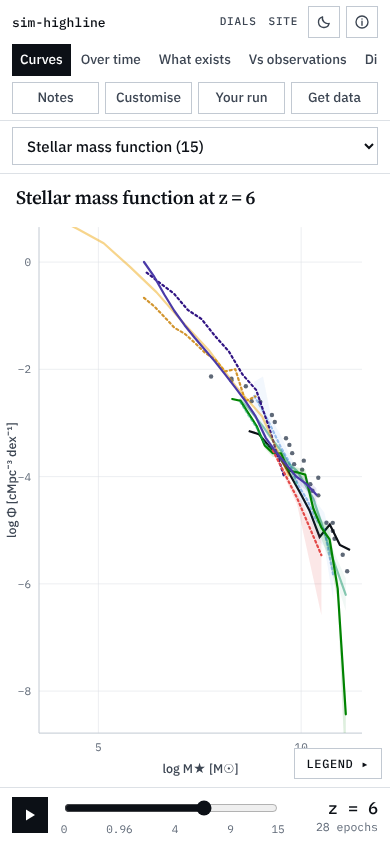
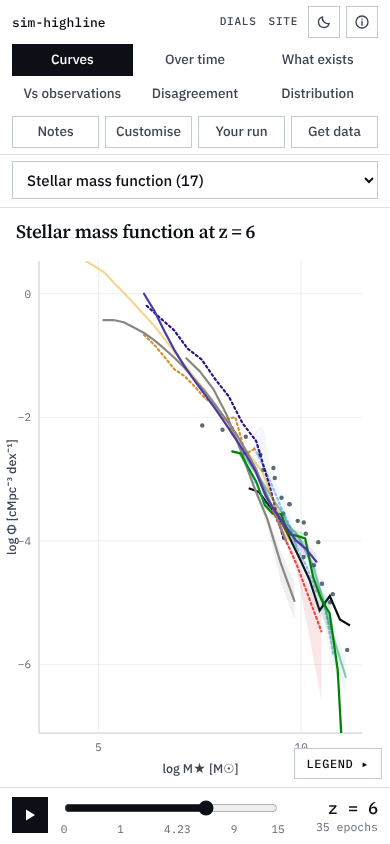
Share cards for the answer pages, cite-or-embed block, subscribe links, plain README opening
Each answer page and the answers index have their own preview image; answer pages end with a citation and an embed snippet whose address the test loads; the footer links the Atom feed and the changes page says how to follow along; the README opens with one sentence and three links and its screenshots show the current Explorer.

diff --git a/site/src/changes.html b/site/src/changes.html
@@ -15,6 +15,7 @@
 <p class="lab">Contents</p>
 <ol>
 <li><a href="#new"><span aria-hidden="true">§1</span>Releases</a></li>
+<li><a href="#follow"><span aria-hidden="true">§2</span>Follow along</a></li>
 </ol>
 </nav>
 <div class="c">
@@ -34,6 +35,15 @@
 <dt>0.21.0 · 14 Oct 2026</dt><dd>A pre-specified test of whether matching definitions (IMF, scatter, aperture) closes the gap between simulated stellar mass functions: not detected, and the test could not have seen an effect of the measured size. New within-run aperture curves for EAGLE and COLIBRE.</dd>
 <dt>0.20.0 · 13 Oct 2026</dt><dd>NewHorizon stellar mass functions at four epochs; new curves for COLIBRE, FIREbox, FIRE-2 and NIHAO; an automatic screen that compares every curve with the median of the others.</dd>
 </dl>
+</section>
+
+<section class="sec" id="follow" aria-labelledby="follow-h">
+<h2 id="follow-h"><span class="sn" aria-hidden="true">§2</span>Follow along</h2>
+<ul class="flat">
+<li><b>Releases.</b> Subscribe to the <a href="../feed.xml">Atom feed</a> in any feed reader.</li>
+<li><b>New simulation papers.</b> Every week the repository lists the new simulation papers it found, as <a href="{{repo}}/issues?q=is%3Aissue+label%3Aliterature-watch">a list of issues</a>. Reading them needs no account; to be told about each one, use GitHub's Watch button on the <a href="{{repo}}">repository</a>.</li>
+<li><b>A paper or a relation that is missing?</b> <a href="{{repo}}/issues/new?template=feedback.yml">Tell us</a>; the weekly list is where the next additions come from.</li>
+</ul>
 </section>
 </div>
 </div>

diff --git a/CHANGELOG.md b/CHANGELOG.md
@@ -2,6 +2,11 @@
 
 ## Unreleased (since 0.24.0)
 
+- `derive` on a real catalogue: the z = 0 Subfind catalogue of one public CAMELS-TNG box (CV_0, 16 MB, no account needed) went through `sim-highline derive` for the first time (`docs/DERIVE-REAL-CATALOGUE.md`, `scripts/derive_real_example.py`, `scripts/test_derive_real.py`, committed records and result in `tests/derive-cli/`). The file is the one the stored CAMELS-TNG per-box summary was made from (hash and values equal); an independent recomputation reproduces the 304 galaxies above the cut and every point of five relations exactly; set beside the stored 27-box mean, five relations come out comparable with caveats (each names the stellar-mass definition that differs) and the gas metallicity not comparable (12 + log(O/H) against a metal mass fraction). The stellar-to-halo ratio is 0.11 dex below the stored mean, about three times the scatter between boxes, and recomputing it with the stellar mass of the whole subhalo brings it to within 0.01 dex. One box, one code, the baryon particle mass stated from the paper; the page says what it does not show. Two findings about `derive`: the report printed the header's floating-point redshift (`z = 2.22e-16`; now rounded as the records already were), and the black-hole mass of the same Subfind field carries two different labels in the two pipelines, which the rules list as a difference (left as it is; open question on the page).
+- Share cards: each answer page and the answers index have their own 1200 × 630 preview image (`og-answer-*.png`, `og-answers.png`), drawn from the page's own figure by `scripts/make-og-images.mjs`, so a link to an answer shows that answer's chart instead of the generic card. The images are committed and regenerated by hand (rendering is not byte-for-byte reproducible, so they are not part of the verification chain); `scripts/test-site.mjs` checks that each exists at 1200 × 630 and that the page names it.
+- Answer pages end with a "Cite or embed this page" block: a ready-to-paste citation (with the DOI wording that says which version is deposited) and an `<iframe>` snippet for the Explorer at that relation and epoch (`highline.html#embed=1&r=…&z=…`); `scripts/test-answers.mjs` loads each embed address in the browser.
+- Subscribe: the footer of every page and a line in the page head link to the Atom feed (`feed.xml`), and the changes page has a "Follow along" section (the feed, the `literature-watch` issues, the feedback link).
+- README: the opening is one plain sentence, three "Start here" links (answers, Explorer, dials), and the Answers page in the live links; the screenshots show the current Explorer (11 simulations, four observational references at z = 6) and the picture's description matches.
 - Same-definition curves from the CAMELS public catalogues: 89 curves of three codes (CAMELS-TNG, CAMELS-SIMBA, CAMELS-Astrid; the 27 cosmic-variance boxes of 25 Mpc/h each, the mean over the boxes of the per-box median, the band one standard deviation between the boxes) for six relations (black hole mass, stellar-to-halo mass ratio, size, stellar metallicity, gas metallicity, quenched fraction) at z = 0, 0.95, 2.15, 3 and 4. The three codes are measured by the same code with the same definitions, so their curves can be read against each other; they raise the number of rankable simulation sources for the black hole relation from 2 to 5, the quenched fraction from 1 to 4, size and stellar metallicity from 4 to 7. They are the small-box CAMELS versions of the models, have their own source names and never stand in for the production runs. Built offline from the saved per-box summaries (`scripts/camels_cv_curves.py`); `scripts/test_camels_cv_curves.py` recomputes every one of the 596 points from the per-box values and checks the boxes, the definitions and the checksums. Left out on purpose: the stellar mass function (the pre-registered harmonization study takes one curve per simulation source from every stellar mass function record, so a new source with a z ≈ 0 mass function would change a frozen result), the star formation rate density, the specific star formation rate and the halo mass function. The simulations count goes from 22 to 25 and the digitized share of simulation curves from 55 % to 52 %. The new curves give a quiescent-galaxy size curve (van der Wel et al. 2014, z = 2.25) enough peers to be screened for the first time; it is flagged and triaged as a difference of population and size definition, not as an error.
 - The palette file (`data/palette.css`) is regenerated by the verification chain now. It had not been regenerated since the DARWIN round, so The Three Hundred and CoDa II were drawn in the fallback grey; they and the three CAMELS sources have their own colours, in the family of their model, and no existing colour changes.
 - The transfer budget of the Explorer's disagreement view, which reads every relation's data file, goes from 880 to 920 kB: the new CAMELS curves add 23 kB to it (881 kB measured). The first-visit budget (260 kB; 252 kB measured) is unchanged.

diff --git a/README.md b/README.md
@@ -2,18 +2,22 @@
 
 [![DOI](https://zenodo.org/badge/DOI/10.5281/zenodo.23217259.svg)](https://doi.org/10.5281/zenodo.23217259)
 
+**Put a galaxy-formation simulation next to every published simulation and observation of the same relation, and see which comparisons are fair.** Two curves that look different can measure different things (a stellar-mass aperture, an initial mass function, a population cut); every curve here carries the definitions that decide it.
+
+**Start here:** [Read an answer](https://shubhanbhatia42.github.io/sim-highline/site/answers.html) · [Open the Explorer](https://shubhanbhatia42.github.io/sim-highline/highline.html#r=gsmf&z=6) · [Turn the physics dials](https://shubhanbhatia42.github.io/sim-highline/site/retune.html)
+
 <picture>
   <source media="(prefers-color-scheme: dark)" srcset="site/src/img/app-dark.png">
-  <img alt="The sim-highline Explorer showing the stellar mass function at z = 6 for nine simulations next to observations, with a relation list on the left and a legend with evidence-tier badges." src="site/src/img/app-light.png">
+  <img alt="The sim-highline Explorer showing the stellar mass function at z = 6 for 11 simulations next to four observational references, with a relation list on the left and a legend that gives each simulation's evidence-tier badge, its offset from the anchor observation and whether the comparison is fair." src="site/src/img/app-light.png">
 </picture>
 
-**A curated dataset of galaxy scaling relations from cosmological simulations, an instrument for retuning two feedback models against each other, and five pre-registered studies of how far simulated galaxy populations can and cannot be made to agree.**
+In more detail, it is a curated dataset of galaxy scaling relations from cosmological simulations, an instrument for retuning two feedback models against each other, and five pre-registered studies of how far simulated galaxy populations can and cannot be made to agree.
 
 > **Beta, not reviewed by anyone outside the project.** More than half of the simulation curves (52 %) were read from published figures by script; every record carries its source, definitions and evidence tier, but **no record has been checked by an outside expert yet**. Where an author or collaboration publishes its own table, use that. Some records come from third-party releases with their own terms (`terms` column; `docs/SOURCE-TERMS.md`).
 >
 > **Corrections and takedowns:** if you are an author or data owner and want a record corrected, attributed differently or removed, open an issue (the "Curve error" form) or use the contact in `CITATION.cff`. Requests are handled promptly and removal is not contested.
 
-**Live:** [Explorer](https://shubhanbhatia42.github.io/sim-highline/highline.html) · [Retune](https://shubhanbhatia42.github.io/sim-highline/site/retune.html) · [Studies](https://shubhanbhatia42.github.io/sim-highline/site/studies.html) · [Data](https://shubhanbhatia42.github.io/sim-highline/site/data.html) · [Methods](https://shubhanbhatia42.github.io/sim-highline/site/methods.html) · [dataset files](https://shubhanbhatia42.github.io/sim-highline/data/export/)
+**Live:** [Answers](https://shubhanbhatia42.github.io/sim-highline/site/answers.html) · [Explorer](https://shubhanbhatia42.github.io/sim-highline/highline.html) · [Retune](https://shubhanbhatia42.github.io/sim-highline/site/retune.html) · [Studies](https://shubhanbhatia42.github.io/sim-highline/site/studies.html) · [Data](https://shubhanbhatia42.github.io/sim-highline/site/data.html) · [Methods](https://shubhanbhatia42.github.io/sim-highline/site/methods.html) · [dataset files](https://shubhanbhatia42.github.io/sim-highline/data/export/)
 
 ## What it is
 
@@ -133,7 +137,7 @@ out = sim_highline.compare_run(x, y, "gsmf", z=0.1, sigma=err,
 
 One row per published curve at that epoch: definition verdict and reasons (the same rules as the website, exported in `sim-highline-rules.json` and checked against the JavaScript by a parity test), and the median, mean and rms offset of your curve in the relation's y units. Undeclared definitions can never be called comparable.
 
-From a catalogue instead of a curve: `sim-highline derive --format subfind|caesar|soap|eagle --catalog ...` writes records with the dataset's definitions (it refuses to guess units, h, the IMF, the particle mass, the box size or an aperture), and `sim-highline compare run.json` lists the nearest comparable observations and simulations; see `docs/DERIVE-CLI.md`.
+From a catalogue instead of a curve: `sim-highline derive --format subfind|caesar|soap|eagle --catalog ...` writes records with the dataset's definitions (it refuses to guess units, h, the IMF, the particle mass, the box size or an aperture), and `sim-highline compare run.json` lists the nearest comparable observations and simulations; see `docs/DERIVE-CLI.md`. It has been run on one real public catalogue (a CAMELS-TNG box), with an independent check of the numbers: `docs/DERIVE-REAL-CATALOGUE.md`.
 
 ## Install and cite
 
